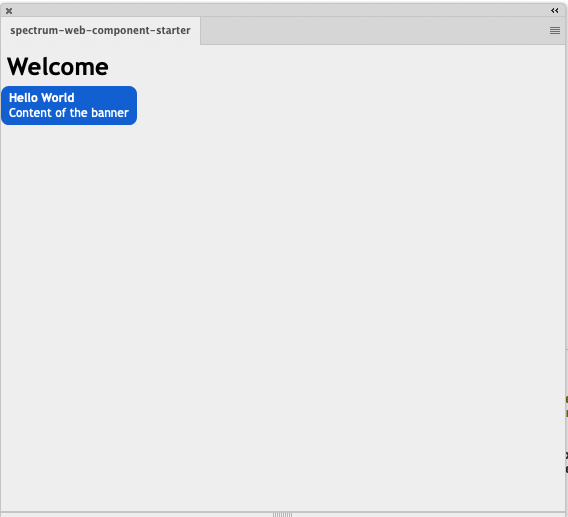
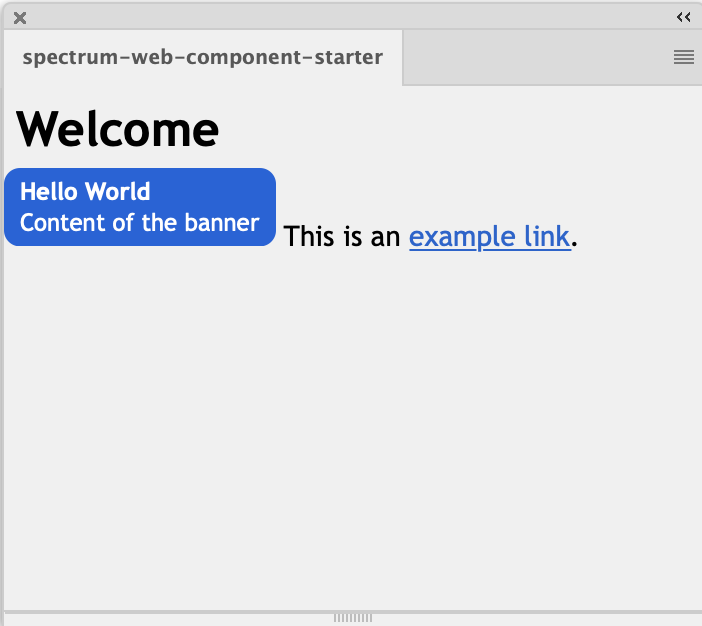
addressing comments

Changed region(s): [[0.0, 0.0, 1.0, 1.0]]

diff --git a/swc-uxp-starter/src/index.html b/swc-uxp-starter/src/index.html
@@ -5,7 +5,7 @@
     <meta charset="UTF-8">
     <meta http-equiv="X-UA-Compatible" content="IE=edge">
     <meta name="viewport" content="width=device-width, initial-scale=1.0">
-    <title>Document</title>
+    <title>Spectrum Web Component in UXP</title>
 
 </head>
 

diff --git a/swc-uxp-starter/README.md b/swc-uxp-starter/README.md
@@ -10,15 +10,15 @@ Start by learning about [Spectrum Web Components](https://opensource.adobe.com/s
 1. Start by installing the dependencies `yarn install`
 2. Prepare the bundle using Webpack `yarn build`. You will notice a **dist** folder after this step.
 3. Add the plugin in UXP Developer Tool (UDT). Click on 'Add Plugin' in UDT and navigate to the `manifest.json` inside the dist folder.
-4. Load the plugin in Photoshop/XD by launching the app. Click on the plugin action menu in UDT and select 'Load'.
+4. Load the plugin in Photoshop/XD by launching the app. Add the plugin in the UDT.Click on the plugin action menu in UDT, select More > Advanced and enter the relative location for the plugin builder folder (./dist is this case).
 
 <img width="800" alt="package.json with resolutions block" src="assets/load-plugin-from-developer-tools.png">
 
 <br></br>
-You should be able to see a banner in Photoshop.
+You should be able to see a banner and a link in Photoshop plugin.
 
 
-<img width="400" alt="package.json with resolutions block" src="assets/banner-starter.png">
+<img width="350" alt="package.json with resolutions block" src="assets/banner-starter.png">
 
 <br></br>
 
@@ -37,7 +37,11 @@ devtool: 'eval-cheap-source-map'
 
 ### **package.json**
 
-Components used in the project should be mentioned under the dependencies block here.
+Once you install the component (using `yarn add`) you should see the components added to the 'dependencies'.
+
+It is recommended to use the specified versions of components. There could be inter dependancy of the components and one component could get impacted if the other upgrades. 
+
+Also, in order to resolve transitive dependancies we need to [force resolutions](https://classic.yarnpkg.com/lang/en/docs/selective-version-resolutions/). Thereby to avoid incompatibility issues in sub components, one needs to mention all the dependancies in the `resolutions` block too.
 
 ### **manifest.json**
 
@@ -57,6 +61,8 @@ Includes index.js.
 
 Observe that the SWC components are wrapped with a ```<sp-theme>``` element. This ensures that the Spectrum design tokens are delivered to the scoped HTML context.
 
+
+
 ### **src/index.js**
 Import the components and themes to deliver the right styling to the components.
 ```javascript
@@ -66,6 +72,11 @@ import '@spectrum-web-components/theme/sp-theme.js';
 import '@spectrum-web-components/theme/src/themes.js';
 import '@spectrum-web-components/theme/src/express/themes.js';
 ```
+
+
+
+
+
 # **Add a new component**
 You can use any of the supported components listed below by following these steps:
 1. Use yarn add to install the components and its supported version.
@@ -93,20 +104,9 @@ This is an <sp-link href="#">example link</sp-link>.
 
 4. Run `yarn build` or `yarn watch` to prepare the dist bundle.
 
-# **4. Frequently Asked Questions**
-1. Do I need to install specified versions of the components?
+# **Troubleshooting**
 
-   Yes. It is recommended to use the specified versions. There could be inter dependancy of the components and one component could get impacted if the other upgrades. 
-
-2. Do I need to wrap all the components in <sp-theme> ?
-
-   Yes. `<sp-theme>` is the one which delivers the spectrum style tokens to the wrapped html.
-   Also make sure to import the appropriate theme.
-
-3. Why do I need the resolution block in the package.json?
-
-   In order to resolve transitive dependancies we need to [force resolutions](https://classic.yarnpkg.com/lang/en/docs/selective-version-resolutions/). Thereby to avoid incompatibility issues in sub components, one needs to mention all the dependancies in the resolution block too.
-4. I see the following error in the console. How do I resolve this ?
+ I see the following error in the console. How do I resolve this ?
 
 ```
 Failed to execute 'define' on 'CustomElementRegistry': the name "sp-icon-alert" has already been used with this registry
@@ -121,44 +121,8 @@ Such errors occur when the package manager has resolved more than one copy of th
 
 
 
-# **Supported Components**
-Following are the components with their variants supported along with the versions.
 
-**Note:** These components are in their Beta phase, and we are working on enhancing these features.
-
-The text color of the variants represents the state they are in:
-
-🟢 Works as per the specs of SWC(web) version.
-
-🟠 Works as per the specs. However, there are minor styling issues.
-
-🔴 Issues due to missing UXP core platform features. Will be addressed only in later releases.
-
-| Components      | Variants with status | Version |  Workarounds (if any)
-| --------------- | -------------------- | ------- |  ------------  |
-| Action-Bar      |   Fixed 🟢    <br></br>   Sticky 🔴      |      0.5.9 |
-| Action-Button   |  Standard 🟢   <br></br>  Selected 🟢  <br></br>   Disabled	 🟢 <br></br>  Quiet 🟢  <br></br>   Emphasized 🟢  <br></br>  Toggles 🔴  <br></br>   hold-affordance 🟢  | 0.8.7 |
-| Action-group |   Standard 🟢  <br></br>  selects (single/multiple) 🔴  <br></br>  Selected  🟢 <br></br>  Vertical 🟢   | 0.12.4 |  ``` margin-right: 10px; ```
-| Avatar |   Standard 🟢   | 0.10.3 |
-| Banner |   Info 🟢  <br></br>  Error 🟢  <br></br>   Corner placement 🟢   | 0.9.2 |
-| Button |   Accent 🟠  <br></br>   Primary 🟠  <br></br>  Secondary 🟠  <br></br>  Negative 🟠  <br></br>  Black 🟠  <br></br>  White 🟠  <br></br>  Content with label 🟢  <br></br>  Content with icon 🟢  <br></br>  Content with svg 🟠 <br></br> | 0.19.8 |   ``` document.querySelector("sp-button").style.color= 'black' ```
-| Card |   Normal 🟢  <br></br>   Action 🔴  <br></br>  No preview Image 🟢  <br></br>  Quiet 🟢  <br></br>  Gallery 🟢  <br></br>  Horizontal 🟢  <br></br>  Linking 🟢  | 0.13.4 |
-| Divider |   Horizontal 🟢  <br></br>   Vertical 🟢  <br></br> | 0.5.0 |
-| Field-Label |   Standard 🟢  <br></br>  Start 🟢  <br></br>  End 🔴  <br></br> | 0.10.3 | ``` Padding-left can be applied to emulate the 'side-aligned'='end' behaviour ```
-| icons-workflow |   Standard 🟢  <br></br> | 0.9.5 |
-| Icons-ui |   Standard 🟢  <br></br> | 0.9.5 |
-| Illustrated-message |    Standard 🟢  | 0.9.8 |
-| Link |    Standard 🟢  <br></br>   Secondary 🟢  <br></br>  Static colored 🟢  <br></br>  Quiet 🟢  <br></br>| 0.14.1 |
-| Menu |   Standard 🟢  <br></br>  With pop-over 🟢  <br></br>  Selects (Single/Multiple) 🔴  <br></br> | 0.16.9 |
-| Menu-group |   Standard 🟢  <br></br> | 0.16.9 |
-| Menu-item |   Standard 🟢  <br></br>  Icon-slot 🟢  <br></br>  Value-slot 🟢  <br></br>  Sub menu 🔴  <br></br> | 0.16.9 | Add styling to sp-icon to render selection for sp-menu-item ```padding-left:-8px```
-| Popover |   No Tip 🟢  <br></br>  With Tip 🔴  <br></br>  Dialog Popover  🟢 <br></br> | 0.12.4 |
-
-
-
-
-
-
+Visit our online docs (https://developer.adobe.com/photoshop/uxp/2022/uxp-api/reference-spectrum/swc) to find the list of supported components
 
 
 
